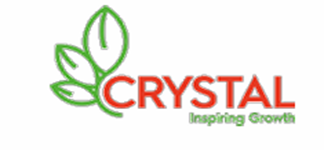
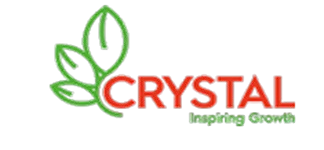
font updated

diff --git a/src/Pages/home/AboutUs.tsx b/src/Pages/home/AboutUs.tsx
@@ -9,7 +9,7 @@ export default function AboutUs() {
         <h2 className="text-2xl font-semibold text-center text-gray-700 mb-6">
           Hebei Green Land Import & Export Co. Ltd.
         </h2>
-        <p className="text-gray-600 text-justify max-w-3xl mx-auto mb-6">
+        <p className=" text-gray-600 text-justify max-w-3xl mx-auto mb-6">
           {" "}
           Company is proficient in arranging & building high performance
           professional teams for effective and successful implementation of

diff --git a/src/Pages/home/Sponsership.tsx b/src/Pages/home/Sponsership.tsx
@@ -24,10 +24,7 @@ const Sponsorship = () => {
 
         <div className="flex flex-wrap justify-center gap-8">
           {sponsors.map((sponsor) => (
-            <div
-              key={sponsor.id}
-              className="bg-white p-4 rounded-lg shadow-lg transition-transform transform hover:-translate-y-2 hover:shadow-2xl max-w-xs"
-            >
+            <div key={sponsor.id} className=" p-4  max-w-xs">
               <img
                 src={sponsor.logo}
                 alt={sponsor.name}

diff --git a/src/index.css b/src/index.css
@@ -11,3 +11,8 @@
   font-weight: var(--weight, 400); /* Set default weight to 400 */
   font-style: normal;
 }
+
+/* global.css or main.css */
+body {
+  @apply font-wix-madefor-display;
+}
